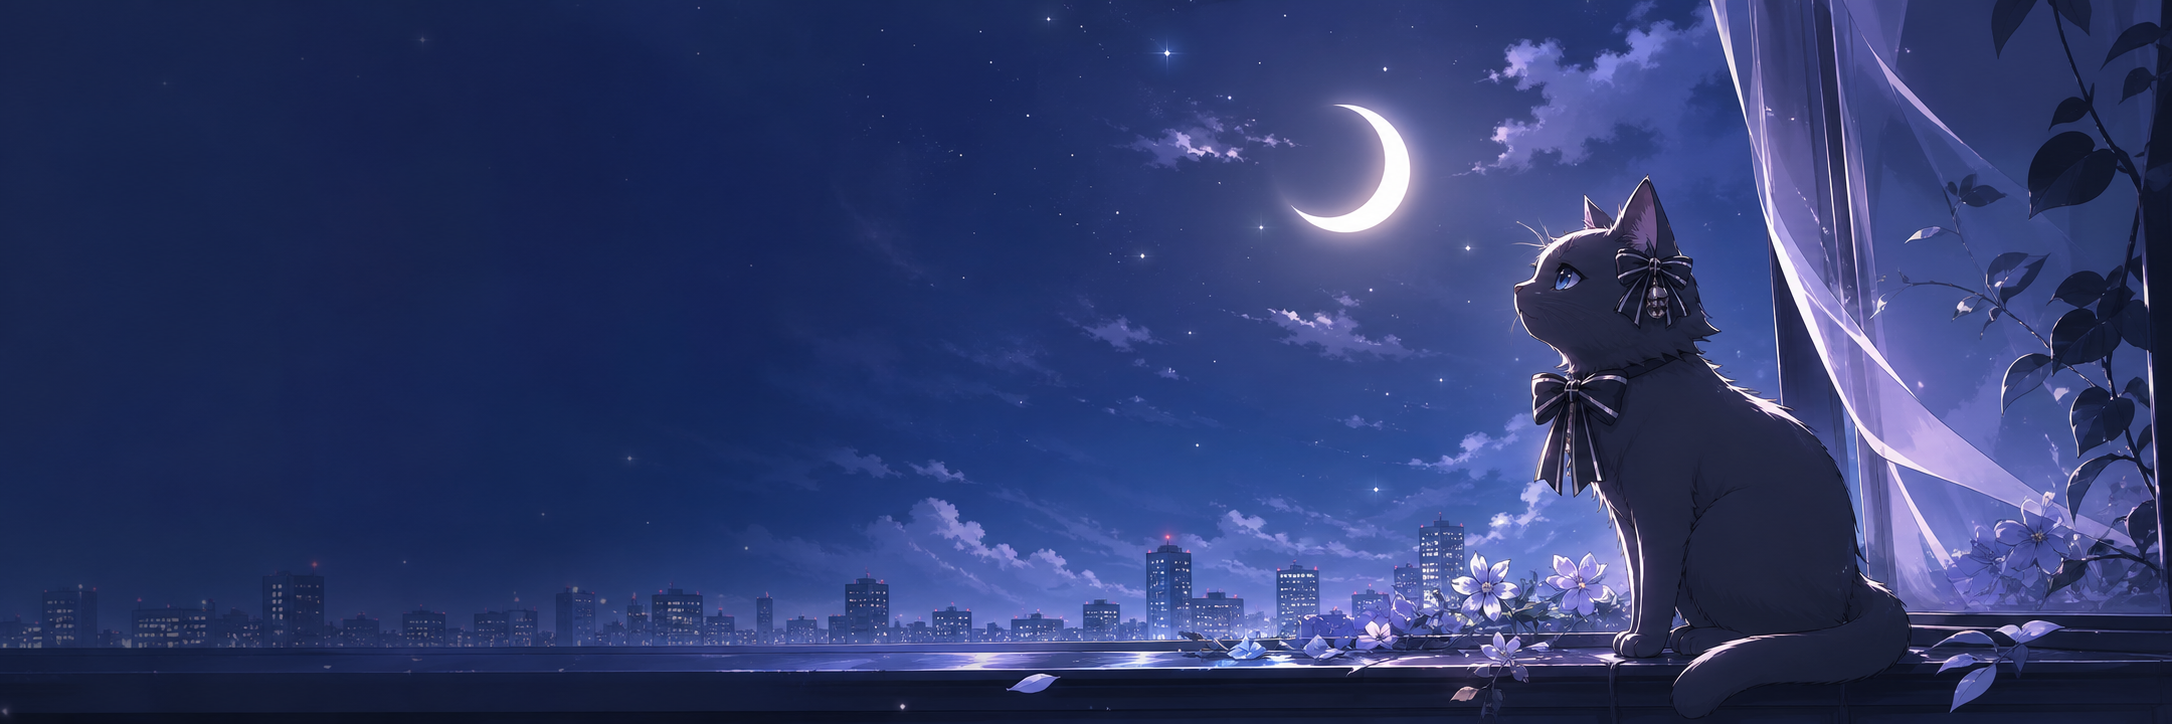
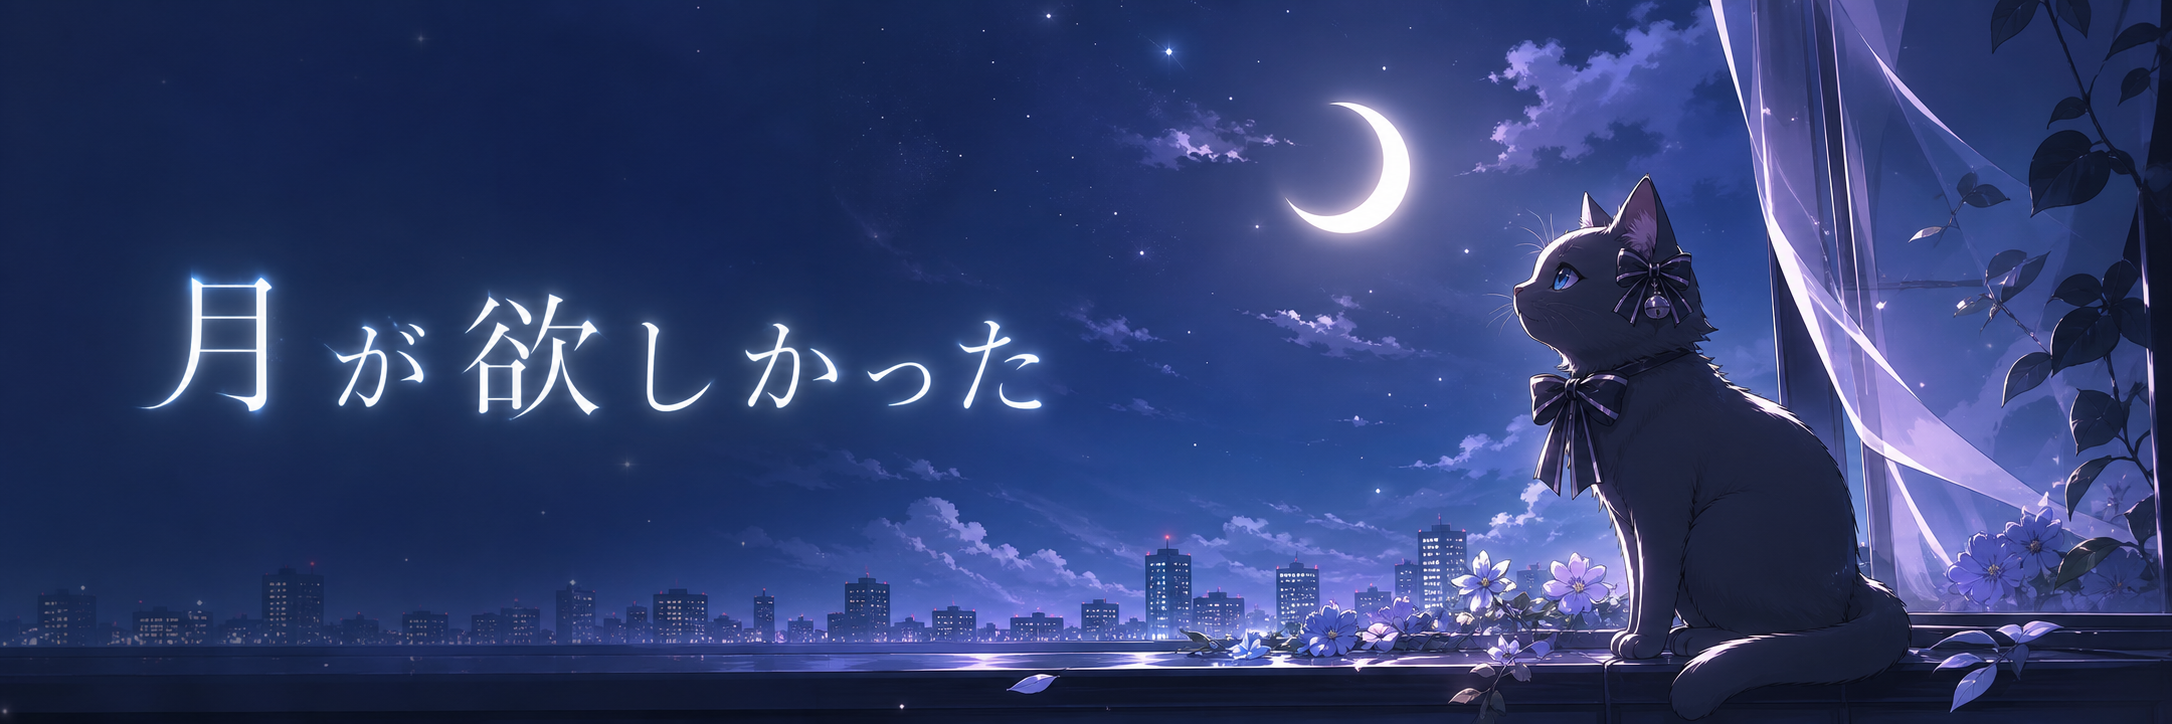
Polish profile decorations

diff --git a/README.md b/README.md
@@ -5,15 +5,21 @@
 <h1 align="center">白猫箱 / eyja211</h1>
 
 <p align="center">
-  <em>月が欲しかった。</em>
-</p>
-
-<p align="center">
   夜色、代码、猫，以及一些还没有醒来的梦。
 </p>
 
 <p align="center">
-  <img src="https://readme-typing-svg.demolab.com?font=Noto+Serif+JP&pause=1200&color=9FB8FF&center=true&vCenter=true&width=520&lines=%E6%9C%88%E3%81%8C%E6%AC%B2%E3%81%97%E3%81%8B%E3%81%A3%E3%81%9F;quiet+night%2C+soft+light;eyja211+%2F+%E7%99%BD%E7%8C%AB%E7%AE%B1" alt="Typing signature" />
+  <img src="https://readme-typing-svg.demolab.com?font=Noto+Serif+JP&pause=1200&color=9FB8FF&center=true&vCenter=true&width=520&lines=quiet+night%2C+soft+light;still+compiling+dreams;eyja211+%2F+%E7%99%BD%E7%8C%AB%E7%AE%B1" alt="Typing signature" />
+</p>
+
+<p align="center">
+  <img src="https://img.shields.io/badge/mood-moonlit-111827?style=flat-square&labelColor=0b1026&color=9fb8ff" alt="mood moonlit" />
+  <img src="https://img.shields.io/badge/status-dreaming-111827?style=flat-square&labelColor=0b1026&color=c4b5fd" alt="status dreaming" />
+  <img src="https://img.shields.io/badge/familiar-black%20cat-111827?style=flat-square&labelColor=0b1026&color=93c5fd" alt="black cat" />
+</p>
+
+<p align="center">
+  <img src="./assets/moon-divider.svg" alt="Moon phase divider" width="78%" />
 </p>
 
 <br />
